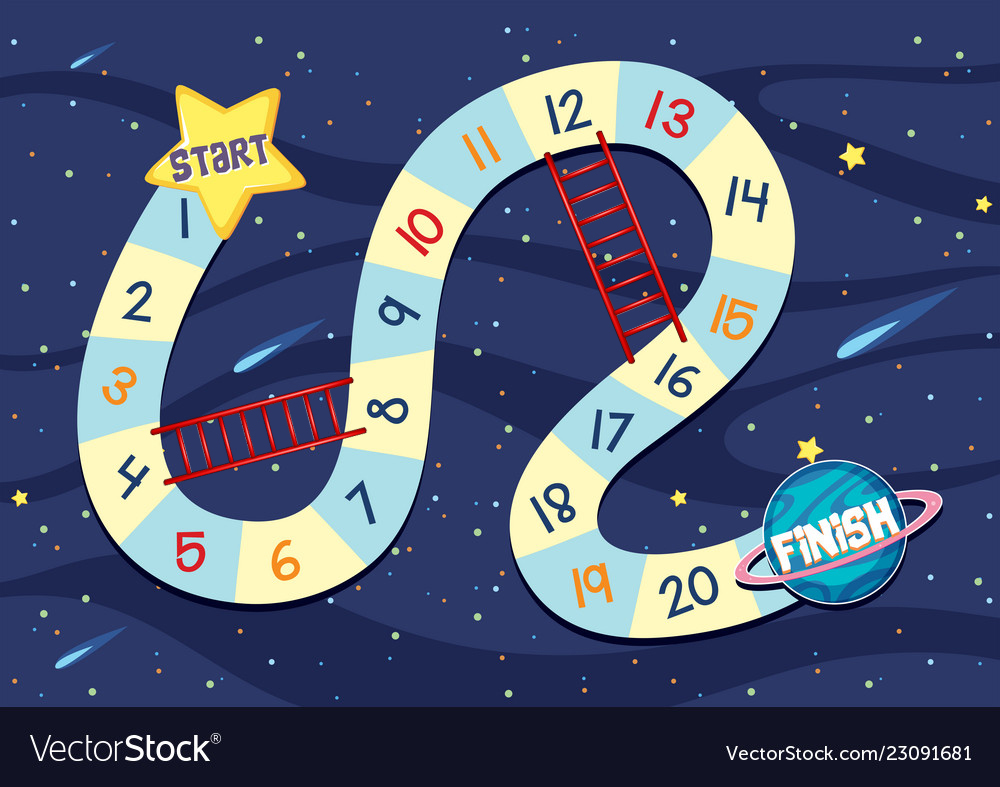
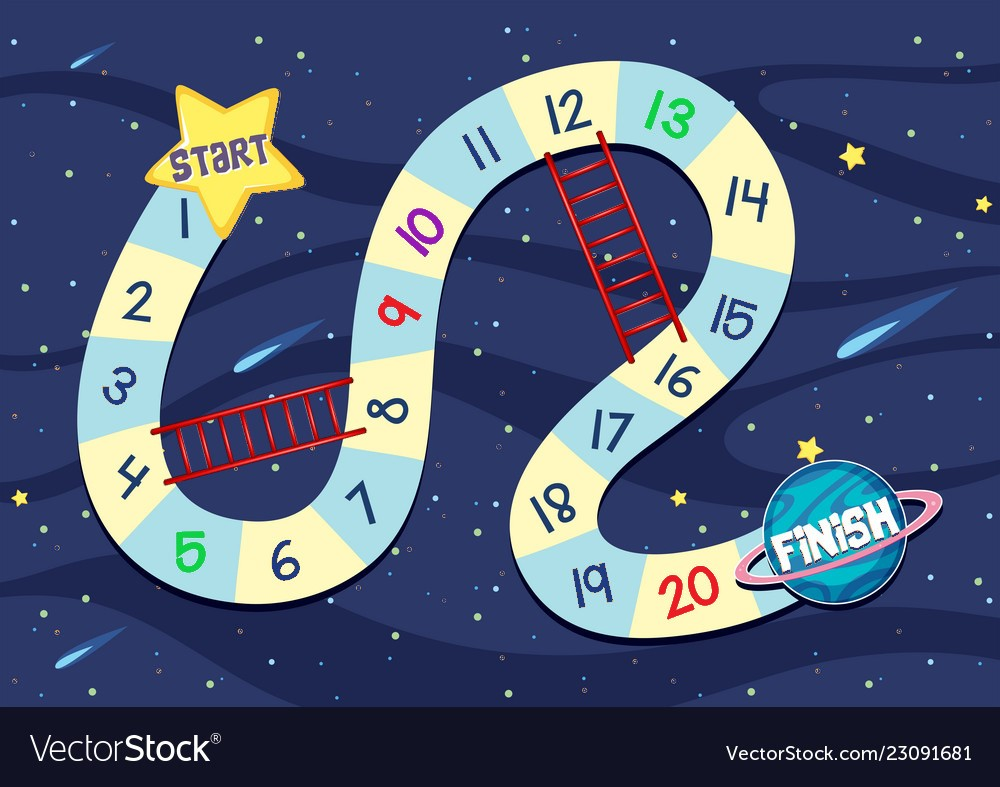
Game_90%

diff --git a/board.py b/board.py
@@ -64,7 +64,7 @@ class Ui(QMainWindow):
     def button_clicked_1(self):
         print("clicked_1")
         
-        random = randint(1,6)
+        random = randint(1, 6)
         QtTest.QTest.qWait(150)
 
         self.DICE_1.setStyleSheet( "QPushButton {border-image: url(Resources/Dice/d1_" + str(random) + ".png); border-radius: 15px;}" )
@@ -103,6 +103,14 @@ class Ui(QMainWindow):
             self.DICE_2.show()
 
         self.DICE_1.setStyleSheet( "QPushButton {border-image: url(Resources/Dice/d1_0.png); border-radius: 15px;}" )
+
+        if self.Step_1 == 9 or self.Step_1 == 20:
+            self.Step_1 = self.red(1, self.Step_1)
+        elif self.Step_1 == 5 or self.Step_1 == 13:
+            self.Step_1 = self.green(1, self.Step_1)
+        elif self.Step_1 == 10:
+            self.Step_1 = self.purple(1, self.Step_1)
+            
 
     @pyqtSlot()
     def button_clicked_2(self):
@@ -147,6 +155,97 @@ class Ui(QMainWindow):
             self.DICE_1.show()
 
         self.DICE_2.setStyleSheet( "QPushButton {border-image: url(Resources/Dice/d2_0.png); border-radius: 15px;}" )
+
+        if self.Step_2 == 9 or self.Step_2 == 20:
+            self.Step_2 = self.red(2, self.Step_2)
+        elif self.Step_2 == 5 or self.Step_2 == 13:
+            self.Step_2 = self.green(2, self.Step_2)
+        elif self.Step_2 == 10:
+            self.Step_2 = self.purple(2, self.Step_2)
+
+    def red(self, player, Step):
+        randomRed = randint(-3, -1)
+        rand = randomRed
+        QtTest.QTest.qWait(150)
+
+        if player == 1:
+            while randomRed != 0:
+                Step -= 1
+                randomRed += 1
+
+                if Step > 21:
+                    Step = 21
+                if Step <= 0:
+                    Step = 0
+                
+                self.updateStep(player, Step)
+                QtTest.QTest.qWait(500)
+            
+        if player == 2:
+            while randomRed != 0:
+                Step += -1
+                randomRed += 1
+
+                if Step > 21:
+                    Step = 21
+                if Step < 0:
+                    Step = 0
+
+                self.updateStep(player, Step)
+                QtTest.QTest.qWait(500)
+        
+        self.bonusLabel.setText("BACK: " + str(-rand) + " steps")
+        self.bonusLabel.setStyleSheet( "QLabel {color: red;}" )
+
+        return Step 
+
+    def green(self, player, Step):
+        randomGreen = randint(1, 3)
+        rand = randomGreen
+        QtTest.QTest.qWait(150)
+
+        if player == 1:
+            while randomGreen != 0:
+                Step += 1
+                randomGreen -= 1
+
+                if Step > 21:
+                    Step = 21
+                if Step <= 0:
+                    Step = 0
+                
+                self.updateStep(player, Step)
+                QtTest.QTest.qWait(500)
+            
+        if player == 2:
+            while randomGreen != 0:
+                Step += -1
+                randomGreen += 1
+
+                if Step > 21:
+                    Step = 21
+                if Step < 0:
+                    Step = 0
+
+                self.updateStep(player, Step)
+                QtTest.QTest.qWait(500)
+        
+        self.bonusLabel.setText("NEXT: " + str(rand) + " steps")
+        self.bonusLabel.setStyleSheet( "QLabel {color: green;}" )
+
+        return Step
+
+    def purple(self, player, Step):
+        randomPurple = randint(1, 2)
+        if randomPurple == 1:
+            Step = self.red(player, Step)
+        else:
+            Step = self.green(player, Step)
+        
+        #self.bonusLabel.setText("purple")
+        #self.bonusLabel.setStyleSheet( "QLabel {color: purple;}" )
+
+        return Step
 
     @pyqtSlot()
     def NewGame(self):
